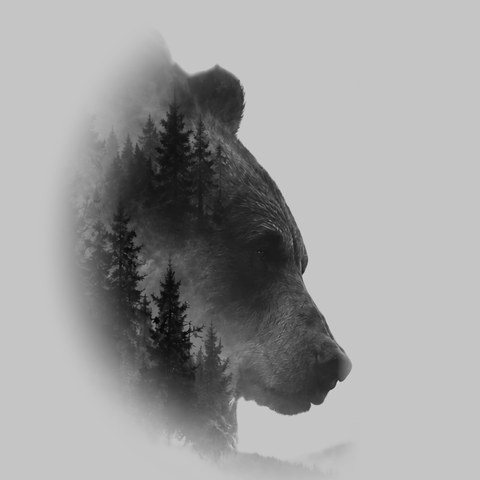
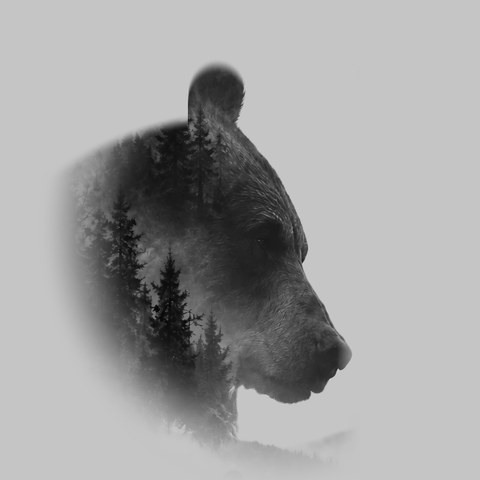
Сайт: кружок на телефоне — без «горба» над ухом, макушка округлая и мягко уходит в туман
Claude-Session: https://claude.ai/code/session_01Uu83MB45nkJX1tXJZPePva

Changed region(s): [[0.1562, 0.0938, 0.75, 0.9688], [0.1875, 0.375, 0.2188, 0.4062]]

diff --git a/site/content.js b/site/content.js
@@ -638,7 +638,7 @@ export function renderSite(raw, imgs = {}) {
       const ph = k.photo && imgs[k.photo];
       // справа — медведь с обложки «Звериной тропы» (лес, туман) или своё фото
       const art = ph ? `<figure class="hero-mist" aria-hidden="true"><img src="${esc(ph)}" alt=""></figure>`
-        : k.art !== false ? '<figure class="hero-mist" aria-hidden="true"><img src="hero-bear.jpg" alt=""><img class="sm" src="hero-bear-round.jpg" alt=""></figure>' : '';
+        : k.art !== false ? '<figure class="hero-mist" aria-hidden="true"><img src="hero-bear.jpg" alt=""><img class="sm" src="hero-bear-round.jpg?2" alt=""></figure>' : '';
       return `<section class="hero${art ? ' has-art' : ''}" id="${k.id}"><div class="wrap hero-in">
         <div class="hero-txt">
           ${lbl(k.label)}

diff --git a/AGENTS.md b/AGENTS.md
@@ -41,7 +41,7 @@
   или другая картинка `photo`. Картинка 1300×1000: только голова медведя (ели ВНУТРИ силуэта — как на обложке, можно) из обложки
   в полном разрешении, мягко выходит из лёгкого тумана; дымка обложки переведена в белый (смешивание multiply с фоном).
   Текст и медведь — одна композиция строго по центру экрана (сетка 540px + 500px, медведь заходит под текст на 48px, текст сдвинут вправо до 48px — у медведя справа туман, так визуальный центр совпадает с центром экрана); картинка — в той же сетке, не absolute. У `.hero-in` нет z-index — иначе multiply не смешивается с фоном и виден белый прямоугольник.
-  На телефоне вместо большой картинки — дымчатый кружок ~190px над текстом (перед главным блоком), по центру; медведь в нём целиком, «издалека» (крупный план она отвергла) (`hero-bear-round.jpg`, морда с глазом и носом; макушка за ухом и лес слева плавно растворяются в тумане, надпись обложки стёрта; новое имя файла — чтобы браузер не показывал старую). Отвергнуто: любые нарисованные ели вокруг («сраные ели»), повторяющиеся куски обложки, люди/река справа, картинка до края экрана.
+  На телефоне вместо большой картинки — дымчатый кружок ~190px над текстом (перед главным блоком), по центру; медведь в нём целиком, «издалека» (крупный план она отвергла) (`hero-bear-round.jpg`, морда с глазом и носом; за ухом — округлая макушка с мягким краем (тёмное над ухом она назвала горбом), лес слева растворяется в тумане, надпись обложки стёрта; после замены картинки — поднять ?N в адресе, чтобы браузер не показывал старую). Отвергнуто: любые нарисованные ели вокруг («сраные ели»), повторяющиеся куски обложки, люди/река справа, картинка до края экрана.
   Читателю не показываем главы и авторские листы — только статус и возраст. Бегущая строка скрыта.
   Внизу каждой страницы — **подписка с подарком** (`subscribeBox`: почта + галочка согласия → Firestore `site_subs`, создавать
   может любой, читать — только владелица; сразу после подписки — кнопка «Скачать» по `giftUrl`). Настройки и список адресов
